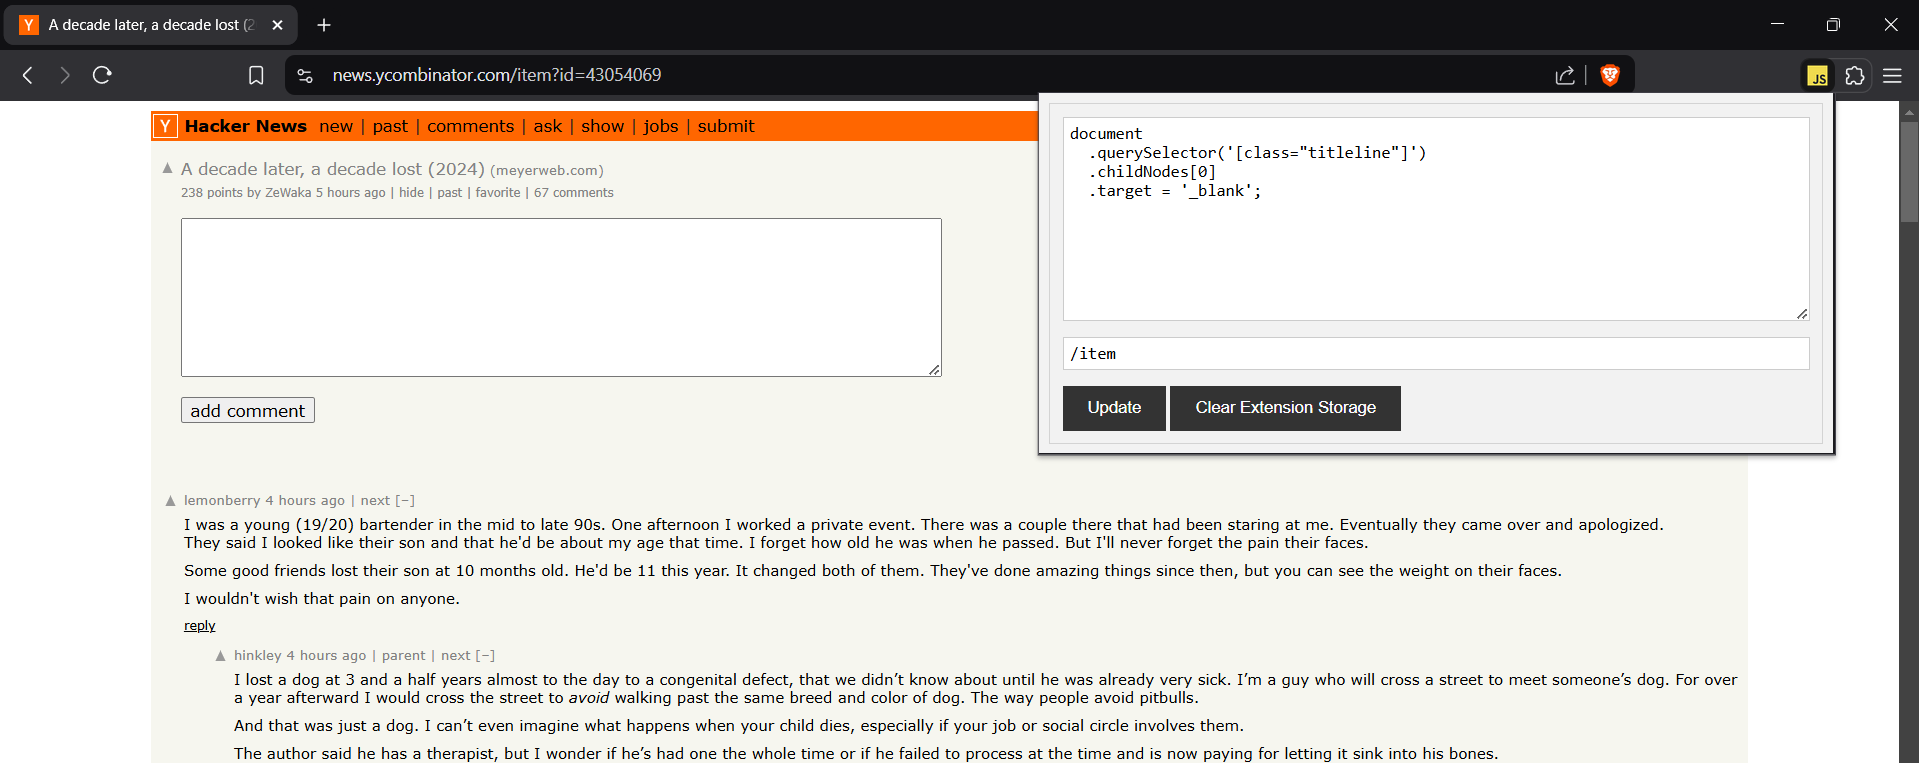
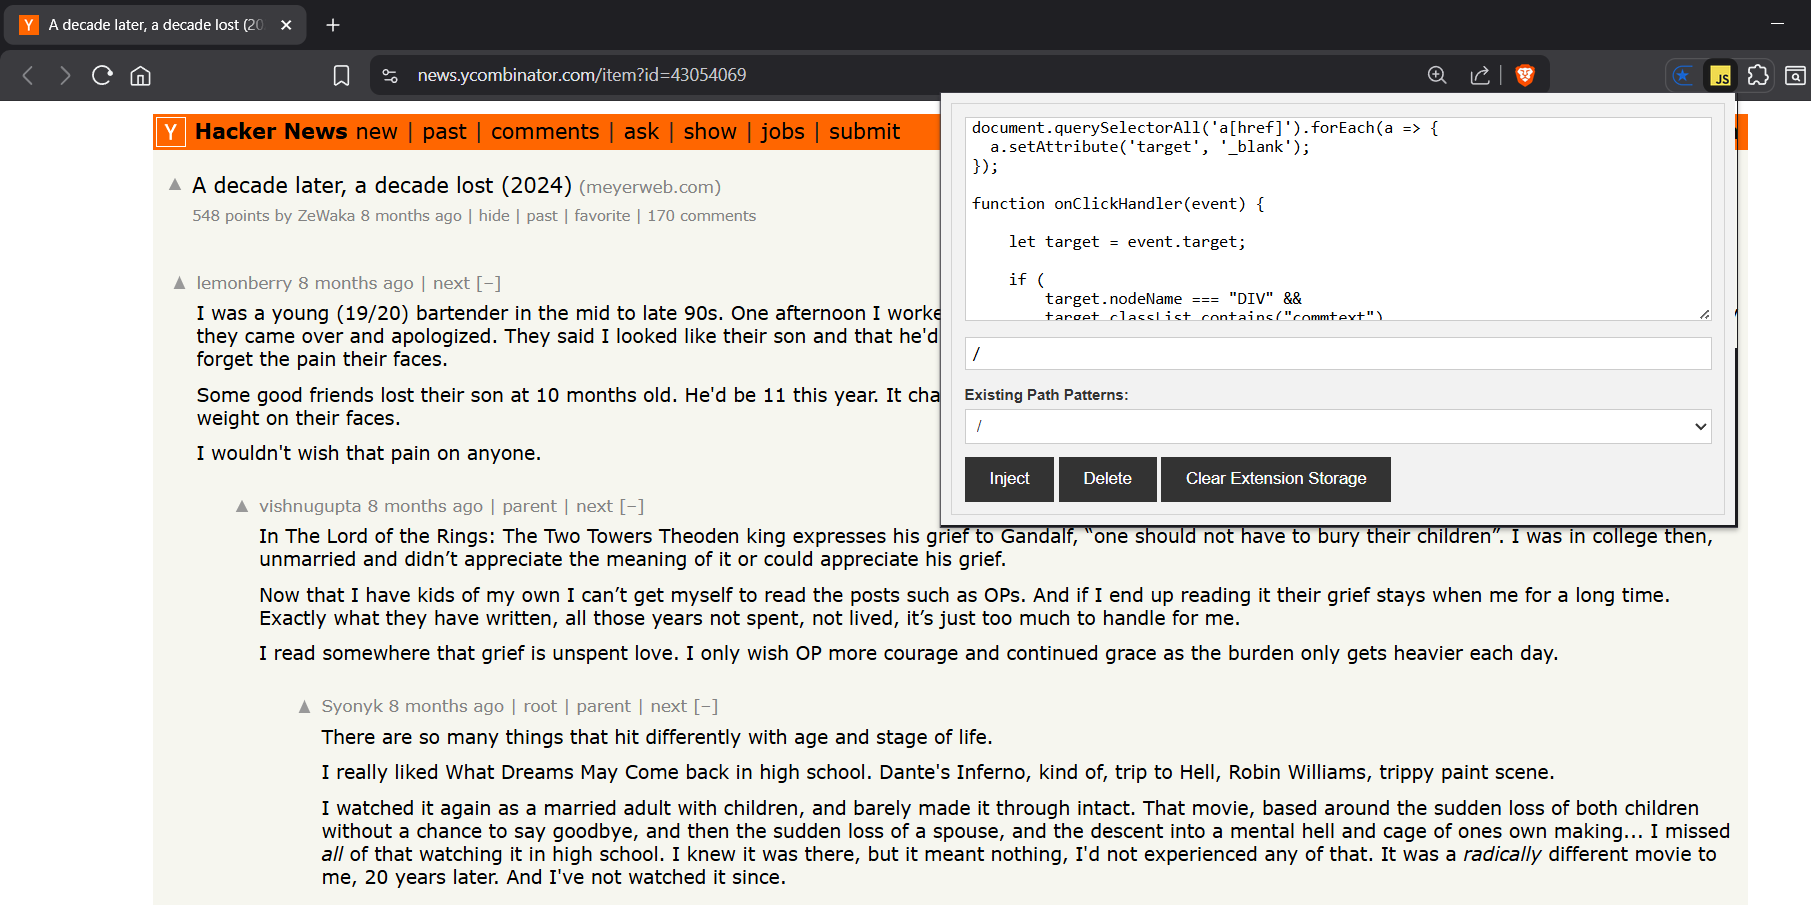
update README.md

Changed region(s): [[0.0, 0.0, 1.0, 1.0]]

diff --git a/README.md b/README.md
@@ -4,8 +4,15 @@ Fork of [hex0cter/js-injector](https://github.com/hex0cter/js-injector) with boo
 
 Chrome extension for injecting javascript to the webpage you are visiting. It can be used as a handy tool to make your surfing a bit of more fun.
 
+Useful for custom changes on how you visit a site like blocking some stuff, automation for clicking button and much more..
+
 Useful for automating email address input and redirection for low timeout sites Okta, AWS ..etc.
 Opening links in new tab by default news.ycombinator.com.
+
+Key Features:
+
+1. Supports Pattern Based Injection
+2. Multiple Separate Injection For A Site
 
 ## Usage
 
@@ -19,6 +26,50 @@ Opening links in new tab by default news.ycombinator.com.
 document
     .querySelectorAll('[author="AutoModerator"]')
     .forEach(e => element.remove());
+```
+
+## Sample Snippets
+
+### Y Combinator
+
+Open all links in new tab and also allow to toggle collapse the comment section (only first line of that comment).
+
+```js
+
+// open all links in new tab.
+document.querySelectorAll('a[href]').forEach(a => {
+  a.setAttribute('target', '_blank');
+});
+
+// allow to hide the comment chain on clicking
+// first line/para of the comment.
+function onClickHandler(event) {
+    let target = event.target;
+
+    if (
+        target.nodeName === "DIV" &&
+        target.classList.contains("commtext")
+    ) {
+        target
+            .parentElement
+            .parentElement
+            .querySelector(".togg.clicky")
+            .click();
+    }
+}
+
+document.onclick = onClickHandler;
+```
+
+### WhatsApp
+
+Focus On `favorites` section and remove other sections.
+
+```js
+// focus on favorities only
+document.getElementById('favorites-filter').click();
+// remove all other sections
+document.querySelector('div[aria-label="chat-list-filters"]').remove()
 ```
 
 ## License
